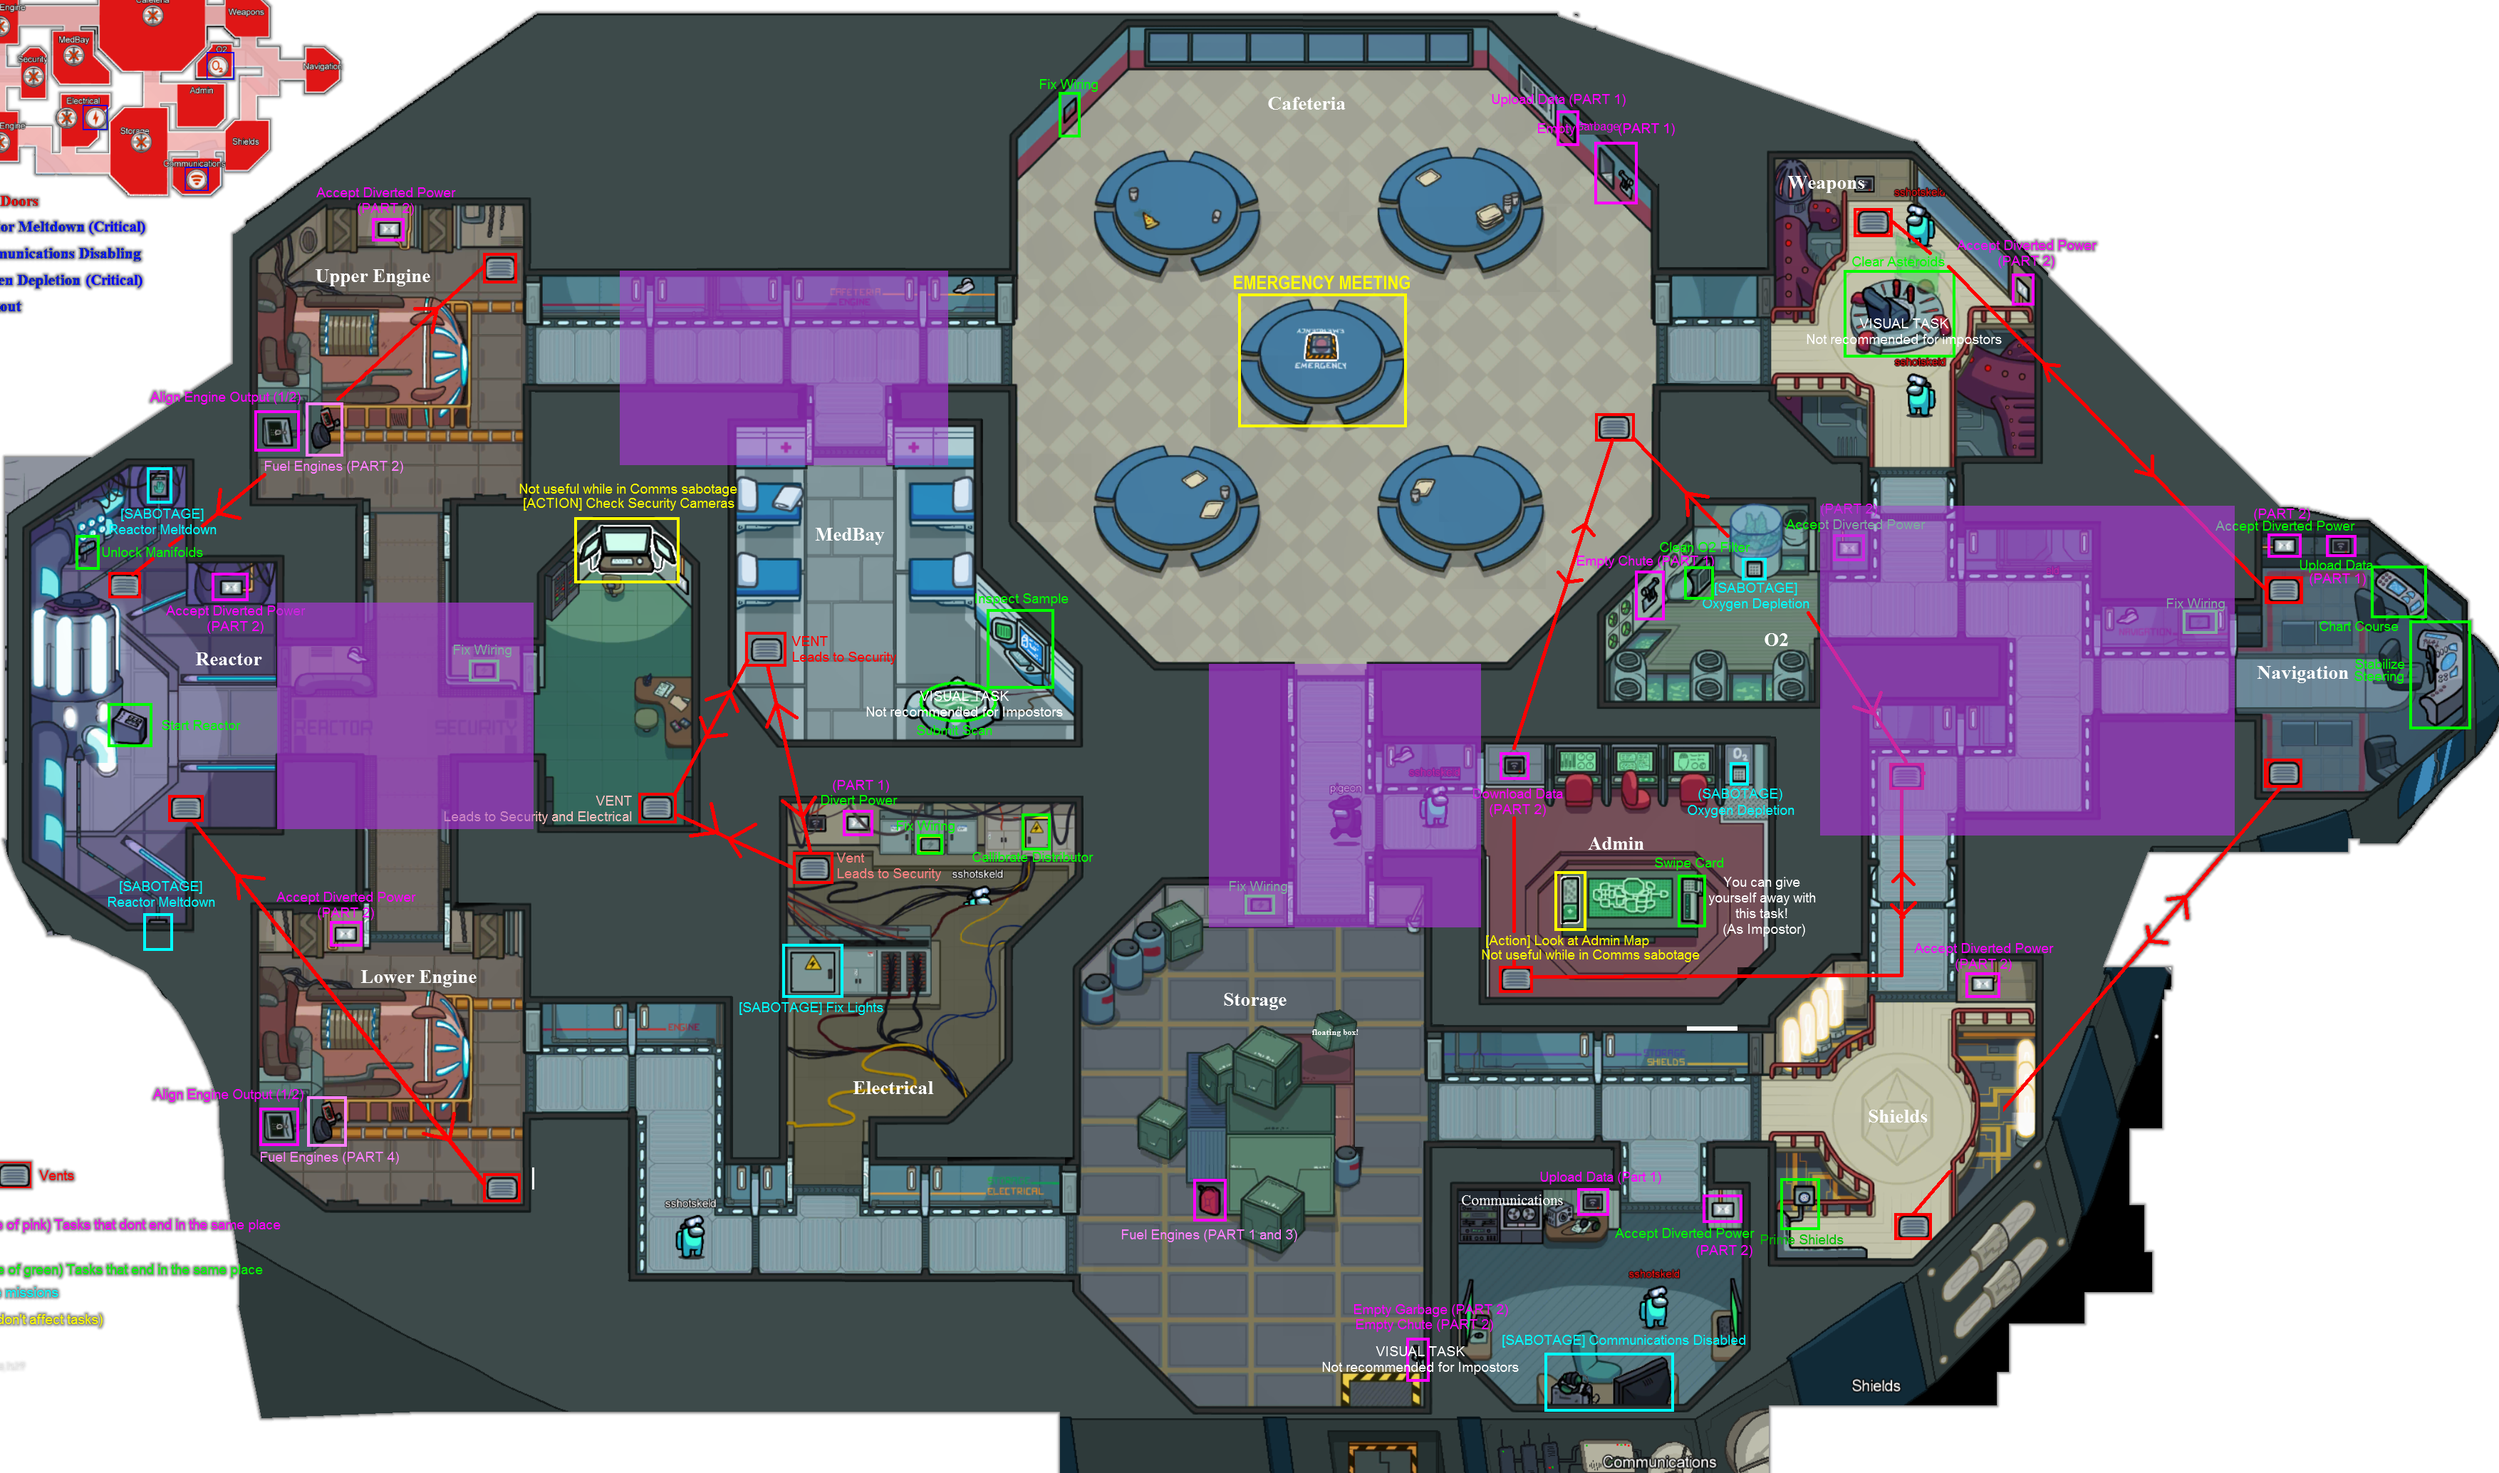
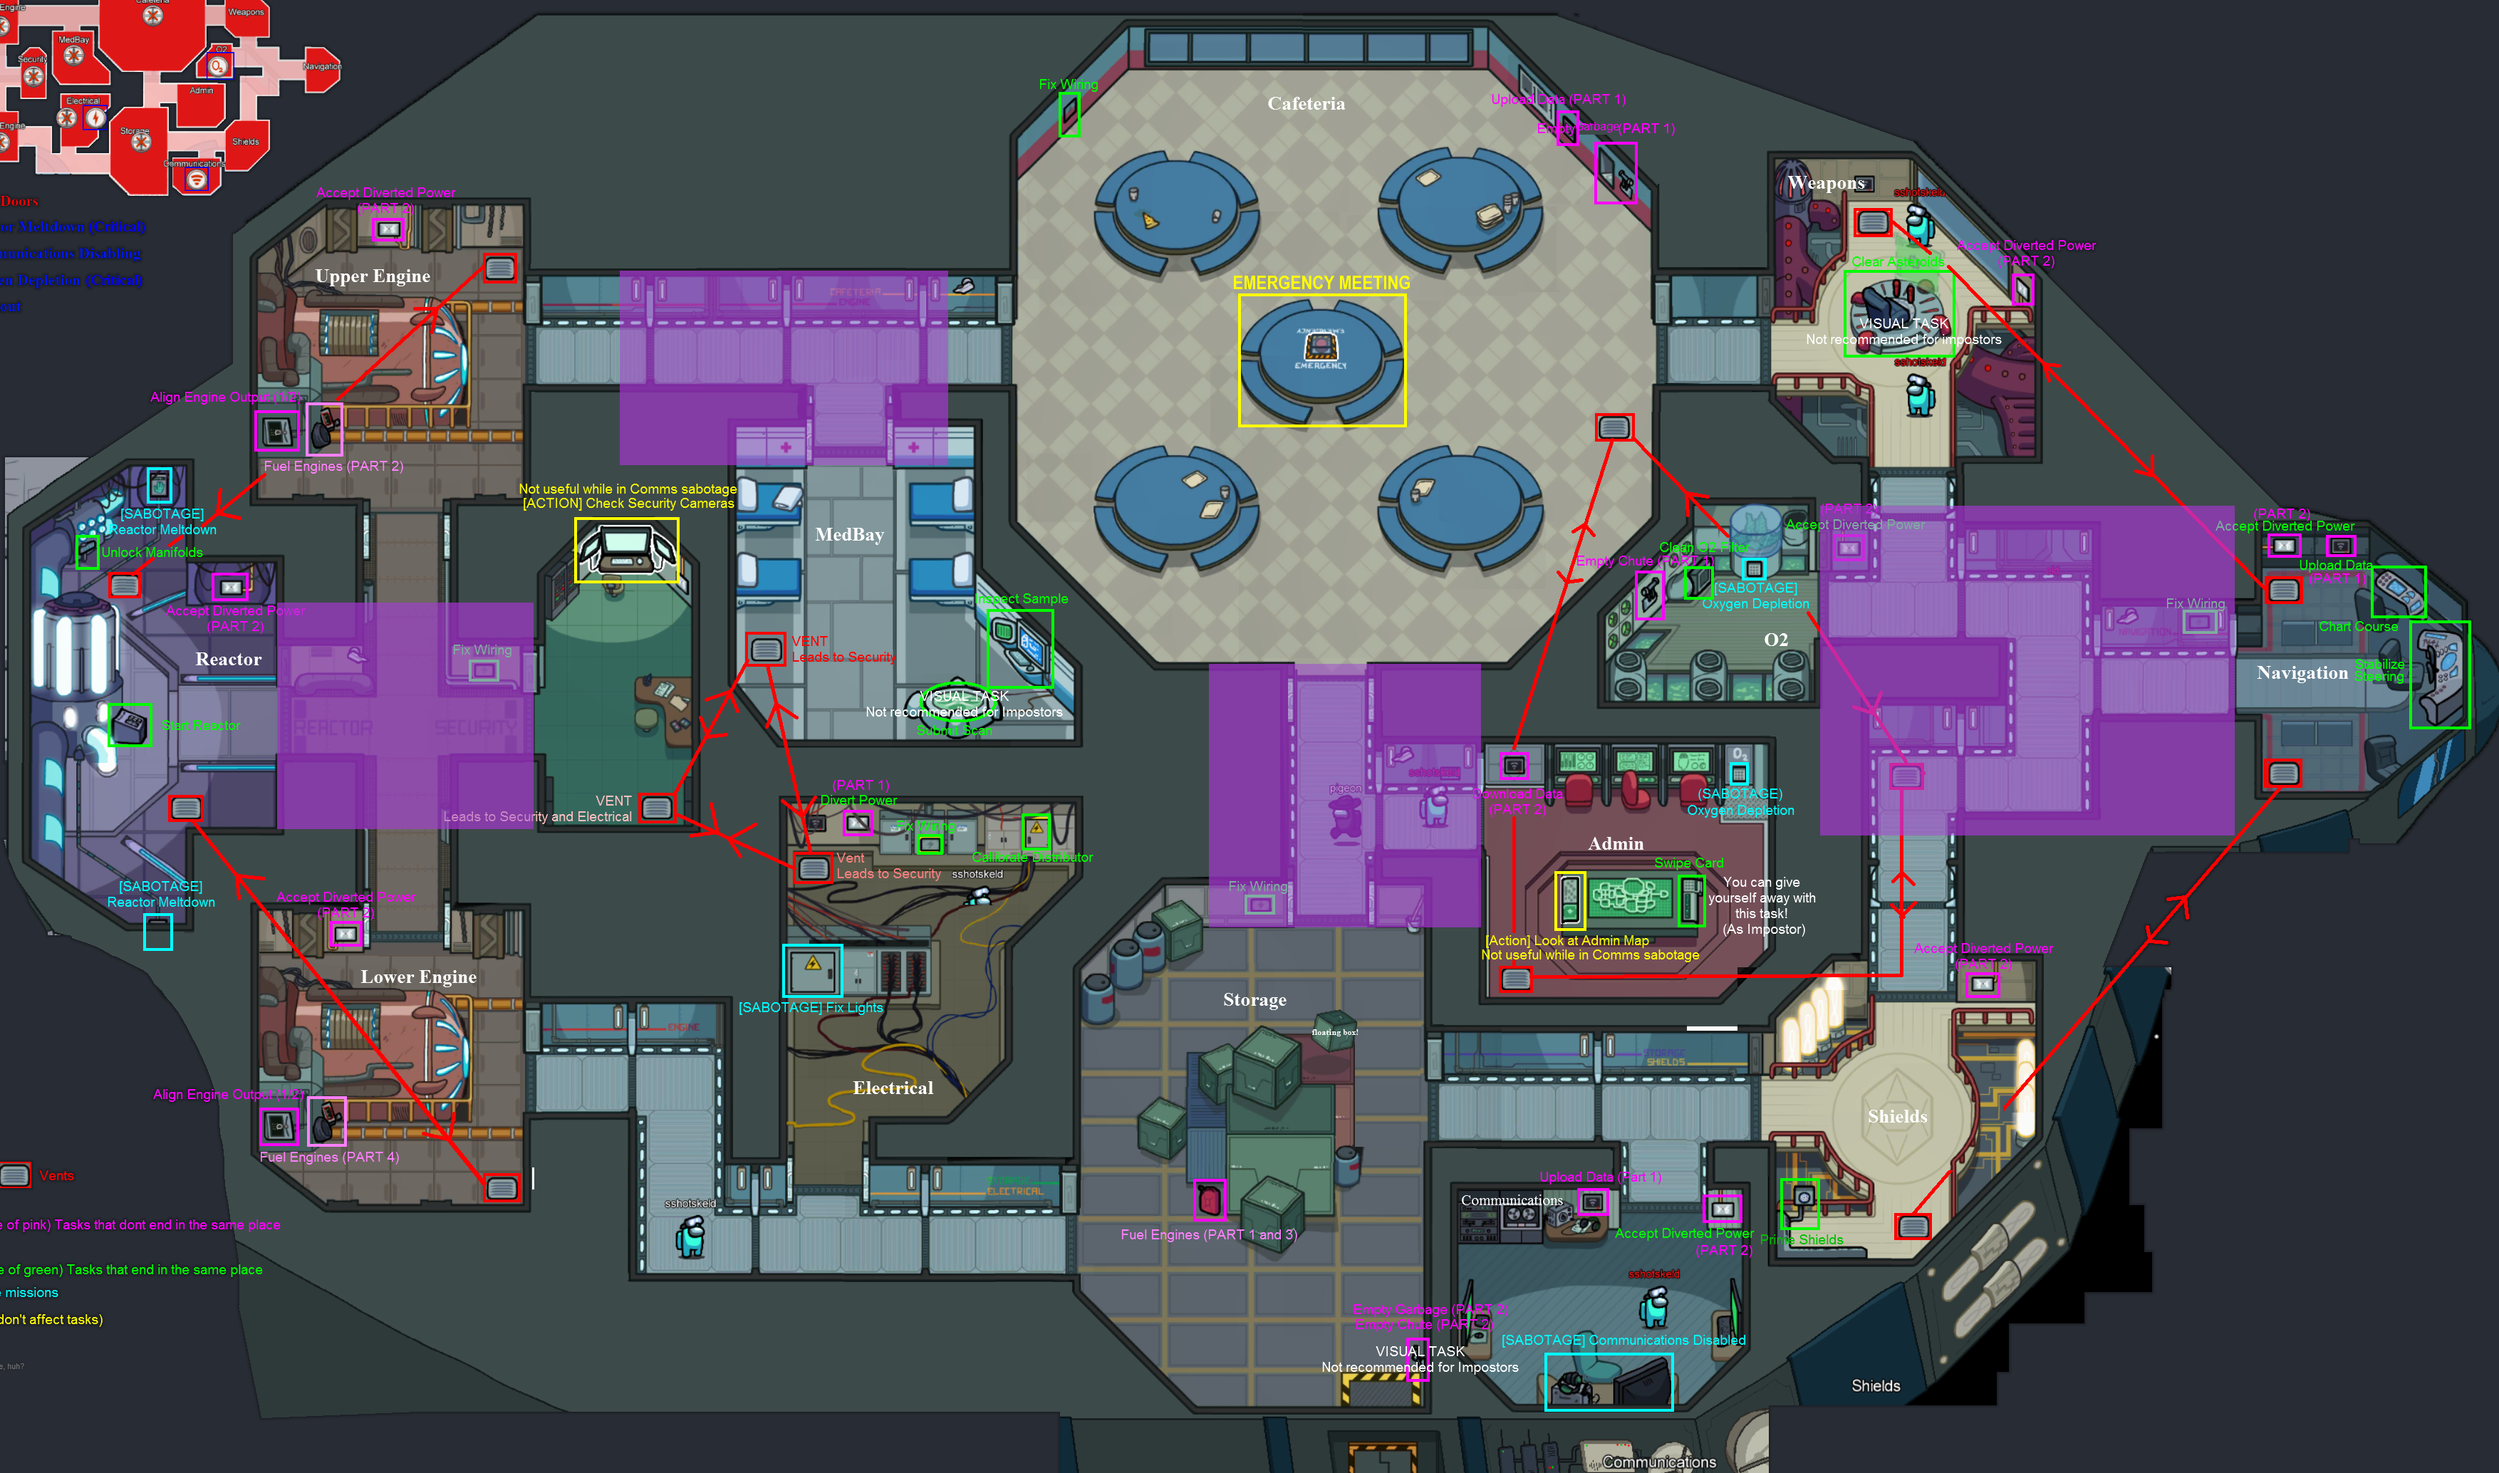
version 1.01b

Changed region(s): [[0.0, 0.0, 1.0, 0.4642], [0.6836, 0.4952, 1.0, 1.0], [0.0, 0.588, 0.435, 1.0]]

diff --git a/src/Sighting.js b/src/Sighting.js
@@ -9,7 +9,7 @@ class Sighting extends React.Component {
     return (
         <div className="suit" style={{ zIndex: '2', top: this.props.y + 'px', left: this.props.x + 'px', position: 'absolute' }}
           onClick={() => {this.props.deleteSighting(this.props.index) }}>
-          <img className="crew-outline" src={crewmate} alt="" draggable="false"></img>
+          <img className="sighting-outline" src={crewmate} alt="" draggable="false"></img>
           <svg width="52" height="65" >
             <path className={this.props.color} d="m2.51773,16.38298l6.77305,-1.13475l1.63121,-8.51064l5.39007,-4.46809c0.03546,0 3.15603,-0.78014 3.29787,-0.78014c0.14184,0 6.38298,0.35461 6.4539,0.35461c0.07092,0 4.11348,1.63121 4.07801,1.63121c0.03546,0 2.87234,3.33333 2.83688,3.33333c0.03546,0 2.30496,2.76596 2.37589,2.97872c0.07092,0.21277 1.77305,5.10638 1.56028,6.02837c-0.21277,0.92199 0.14184,8.43972 0.14184,8.7234c0,0.28369 -0.14184,5.88652 -0.21277,6.4539c-0.07092,0.56738 -0.42553,6.02837 -0.56738,6.17021c-0.14184,0.14184 -1.56028,8.65248 -1.59574,8.65248c0.03546,0 -0.1773,2.12766 -0.21277,2.12766c0.03546,0 -5,0.56738 -5.03546,0.56738c0.03546,0 -2.87234,-0.85106 -2.94326,-0.92199c-0.07092,-0.07092 0.07092,-7.37589 0,-7.37589c-0.07092,0 -5.60284,-0.28369 -5.6383,-0.28369c0.03546,0 0.31915,7.0922 0.28369,7.0922c0.03546,0 -2.0922,2.12766 -2.12766,2.12766c0.03546,0 -5.35461,0.42553 -5.39007,0.42553c0.03546,0 -3.22695,-0.21277 -3.29787,-0.49645c-0.07092,-0.28369 -0.28369,-9.29078 -0.31915,-9.29078c0.03546,0 -5.35461,-0.21277 -5.39007,-0.21277c0.03546,0 -2.02128,-1.84397 -2.05674,-1.84397c0.03546,0 -1.02837,-2.2695 -1.06383,-2.2695" />
           </svg>

diff --git a/src/Map.js b/src/Map.js
@@ -20,7 +20,7 @@ export default class extends React.Component {
     var ctx = this.canvas.getContext('2d');
     var img = new Image();
     img.onload = () => {
-      ctx.drawImage(img, -50, 0, 1920, 1080);
+      ctx.drawImage(img, -50, 0, 1680, 1050);
     };
     img.src = this.props.currentMap;
     this.setState({
@@ -34,7 +34,7 @@ export default class extends React.Component {
       var ctx = this.canvas.getContext('2d');
       var img = new Image();
       img.onload = () => {
-        ctx.drawImage(img, -50, 0, 1920, 1080);
+        ctx.drawImage(img, -50, 0, 1680, 1050);
       };
       img.src = this.props.currentMap;
       this.setState({
@@ -101,7 +101,7 @@ export default class extends React.Component {
         onMouseUp={this.onMouseUp}
         onContextMenu={this.onContextMenu}
       >
-        <canvas width="1920" height="1080" ref={ref => { this.canvas = ref; }} />
+        <canvas width="1680" height="1050" ref={ref => { this.canvas = ref; }} />
         {showMenu && (
           <PieMenu
             radius="200px"

diff --git a/src/App.css b/src/App.css
@@ -1,3 +1,16 @@
+* {
+  -moz-user-select: -moz-none;
+  -khtml-user-select: none;
+  -webkit-user-select: none;
+
+  /*
+    Introduced in IE 10.
+    See http://ie.microsoft.com/testdrive/HTML5/msUserSelect/
+  */
+  -ms-user-select: none;
+  user-select: none;
+}
+
 body {
   margin: 0;
   padding: 0;
@@ -15,7 +28,6 @@ body {
 .App-intro {
   font-size: large;
 }
-
 
 .App {
   text-align: center;
@@ -86,6 +98,12 @@ html {
 }
 
 
+.sighting-outline {
+  position: absolute;
+  top: 0;
+  left:0;
+  z-index: 1;
+}
 .crew-outline {
   position: absolute;
   top: 0;
@@ -119,14 +137,14 @@ h1{
 .suit .self-vouch-text:hover{
   cursor: not-allowed
 }
-.suit .crew-outline:hover{
+.suit .sighting-outline:hover{
   cursor: not-allowed
 }
 .timer .timer-text:hover{
   cursor: context-menu
 }
 .react-draggable:hover{
-  cursor:grab
+  cursor:grab !important;
 }
 
 .red {

diff --git a/src/Timer.js b/src/Timer.js
@@ -8,7 +8,7 @@ class Timer extends React.Component {
         var now = new Date();
         var diff = Math.round(Math.abs((this.props.time.getTime() - now.getTime()) / 1000))
         return (
-            <div className="timer" style={{ zIndex: '2', top: this.props.y - 35 + 'px', left: this.props.x + 5 + 'px', position: 'absolute' }}>
+            <div className="timer" style={{ zIndex: '2', top: this.props.y -42 + 'px', left: this.props.x + 5 + 'px', position: 'absolute' }}>
                 <p className="timer-text">{diff}s</p>
             </div>
 

diff --git a/src/App.js b/src/App.js
@@ -113,7 +113,7 @@ class App extends React.Component {
       case 'brown': cssColor = '#804000'; break;
       case 'teal': cssColor = 'aqua'; break;
       case 'lime': cssColor = 'lime'; break;
-
+      default: cssColor = ""; break;
     }
 
     var i = 0;

diff --git a/README.md b/README.md
@@ -1,1 +1,23 @@
-This shouldn't be my home page....
+# Among Us Detective
+
+> Use this to sus out the Impostor
+
+> alternatively use this as Imposter to mark everytime you've been seen
+
+> Among us Helper app
+
+
+## How To
+
+- **Left Click** and drag to mark a sighting of a crewmate.
+- **left Click** a sighting to remove it.
+ 
+- **Right Click** and drag to mark where people said they were.
+- **Left Click** a question mark to remove it.
+
+- Three grids at the top to organize who has been cleared or is suspicious. **Click and Drag**
+- Use the dropdown and select a color to draw a path between all sightings of a particular color in chronological order.
+
+- click **Remove Paths** to remove all the paths between sightings 
+- Click **Remove ?'s** to remove all self vouches
+- Click **Remove Sightings** to remove all sightings(between round or games depending on how cluttered it gets)
